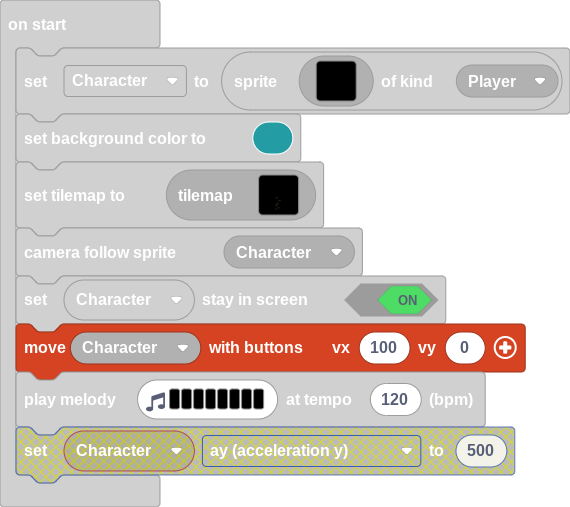
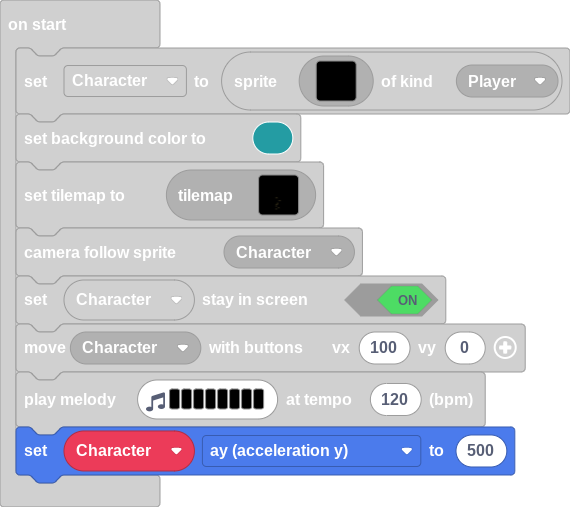
Update main.blocks, main.ts

Changed region(s): [[0.0298, 0.8284, 0.9246, 0.9763], [0.0, 0.6213, 0.9246, 0.7692]]

diff --git a/main.ts b/main.ts
@@ -50,3 +50,4 @@ scene.cameraFollowSprite(Character)
 Character.setStayInScreen(true)
 controller.moveSprite(Character)
 music.playMelody("D G D B C E F D ", 120)
+Character.ay = 500
